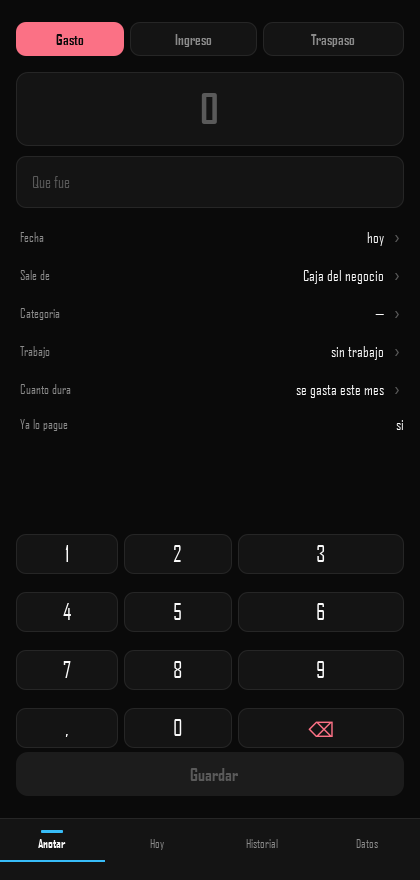
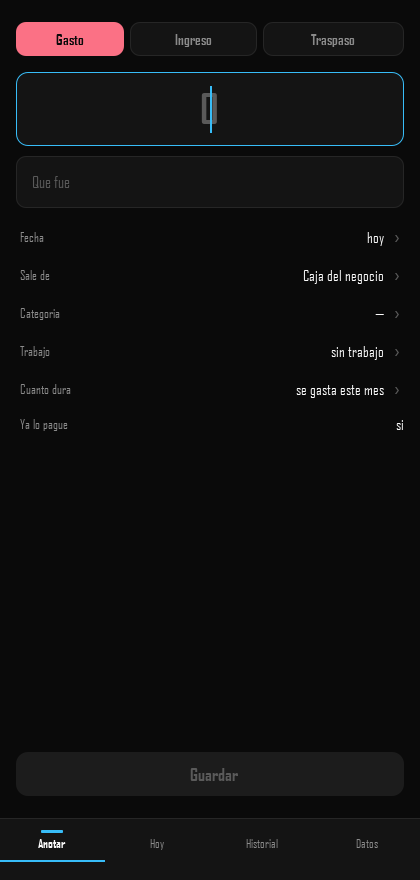
APK con la nube, capturas al dia y PENDIENTE.md
- APK reconstruido: targetSdk 34, "Finanzas", icono propio, firma v2+v3, y solo
  el permiso de INTERNET. Mismo nombre de paquete, asi que se instala encima
  del anterior sin perder lo anotado.
- Las cuatro capturas de docs/movil se rehicieron contra una base limpia via
  DAKE_TEST_DB_PATH. La primera tanda salio de la base real y mostraba el
  correo del usuario en la pantalla Datos: el repositorio no es lugar para eso.
- PENDIENTE.md: que falta, por que no lo pude hacer yo, y que quedo verificado
  y que no.

Claude-Session: https://claude.ai/code/session_01A895jNdkNHh3zvDsgksu42

diff --git a/PENDIENTE.md b/PENDIENTE.md
@@ -1,0 +1,105 @@
+# Lo que queda pendiente
+
+Al 2026-09-04. Este archivo existe porque el trabajo quedó terminado salvo un
+paso que **solo podés dar vos**, y sin él nada de la sincronización funciona.
+
+---
+
+## 1. Correr la migración en Supabase — BLOQUEA TODO LO DEMÁS
+
+```
+supabase_v2_ids_a_texto.sql
+```
+
+Panel de Supabase → SQL Editor → New query → pegar → Run.
+
+**Por qué no lo hice yo:** la única credencial que la aplicación guarda es la
+clave anónima, que sirve para leer y escribir filas pero **no puede alterar
+tablas**. La que sí podría es la `service_role`, que por diseño no está en
+ningún archivo de este proyecto — justamente porque saltea las políticas RLS.
+
+**Qué arregla:** la primera versión de `supabase_v2.sql` declaró los
+identificadores como `uuid`. Fue un error de diseño: `core::Id` es una cadena
+opaca y la siembra usa ids legibles (`p-caja`, `j-macbook`, `m-01`). El síntoma
+es el error que ya viste:
+
+```
+400  22P02  invalid input syntax for type uuid: "p-caja"
+```
+
+Y como Postgres rechaza el lote **entero** ante una fila mal tipada, no sube
+absolutamente nada: las 17 filas de la cola se quedan donde están.
+
+La migración no borra ni pierde datos: solo cambia el tipo de las columnas.
+
+---
+
+## 2. Comprobar que quedó bien
+
+```
+build\debug\bin\dake_synccheck correo contrasena
+```
+
+Tiene que salir con código 0 e imprimir `HTTP 200` en las tres tablas. Si algo
+falla, dice en qué paso exacto.
+
+Después, en la aplicación de escritorio: botón **Conectar**, y sincroniza sola.
+`Ctrl+S` para las siguientes.
+
+---
+
+## 3. Instalar el APK nuevo en el teléfono
+
+```
+apk\FinanzasDakeLabs.apk
+```
+
+Conserva el nombre de paquete anterior, así que se instala encima sin perder lo
+anotado. Pestaña **Datos** → sección **NUBE** → tu correo y contraseña.
+
+---
+
+## Lo que quedó verificado, y lo que no
+
+**Verificado de punta a punta:**
+
+- Las tres tablas existen y responden (`dake_synccheck` sale 0).
+- RLS bloquea de verdad: una escritura sin sesión devuelve `42501`. Eso es lo
+  que protege los datos con la clave viajando dentro del APK.
+- El teléfono restaura la sesión al arrancar y dispara la sincronización solo:
+  se comprobó renderizando la pantalla Datos, que trajo el error real del
+  servidor.
+- `dake_selftest` y `dake_storagetest` pasan enteros.
+- El APK: `targetSdk 34`, nombre "Finanzas", ícono propio, firma v2+v3, y
+  **solo** el permiso de INTERNET.
+
+**No verificado, porque no puedo:**
+
+- Que una fila suba y baje de verdad. Necesita la migración del punto 1 y tu
+  contraseña.
+- Los dos botones nuevos de la barra lateral del escritorio. `dake_uipreview`
+  renderiza páginas sueltas, no la ventana entera, y abrir la aplicación de
+  verdad roba el foco. Están bien cableados, pero no los vi.
+- Cualquier cosa que dependa de las barras del sistema en el teléfono: el
+  render offscreen no las dibuja.
+
+---
+
+## Si algo sale mal
+
+Cada etapa quedó en su propio commit:
+
+```
+deb93fa  Etapa E: la nube en el telefono
+b33b077  Los identificadores son texto, no uuid
+1d6834e  Lote 3: la nube en el escritorio y el diagnostico
+b0e7ed7  Lote 2: la capa de sincronizacion
+e20a92a  Lote 1: la cola de salida en el repositorio
+ae9432b  Andamiaje de la sincronizacion
+17b94a4  El monto usa el teclado del sistema
+823e1ce  Que la app deje de pelear con las barras del sistema
+a05b6a5  Estado antes del rediseno del telefono
+```
+
+`git reset --hard <commit>` vuelve a cualquiera de esos puntos. El `a05b6a5` es
+la aplicación tal como estaba antes de que empezáramos.
